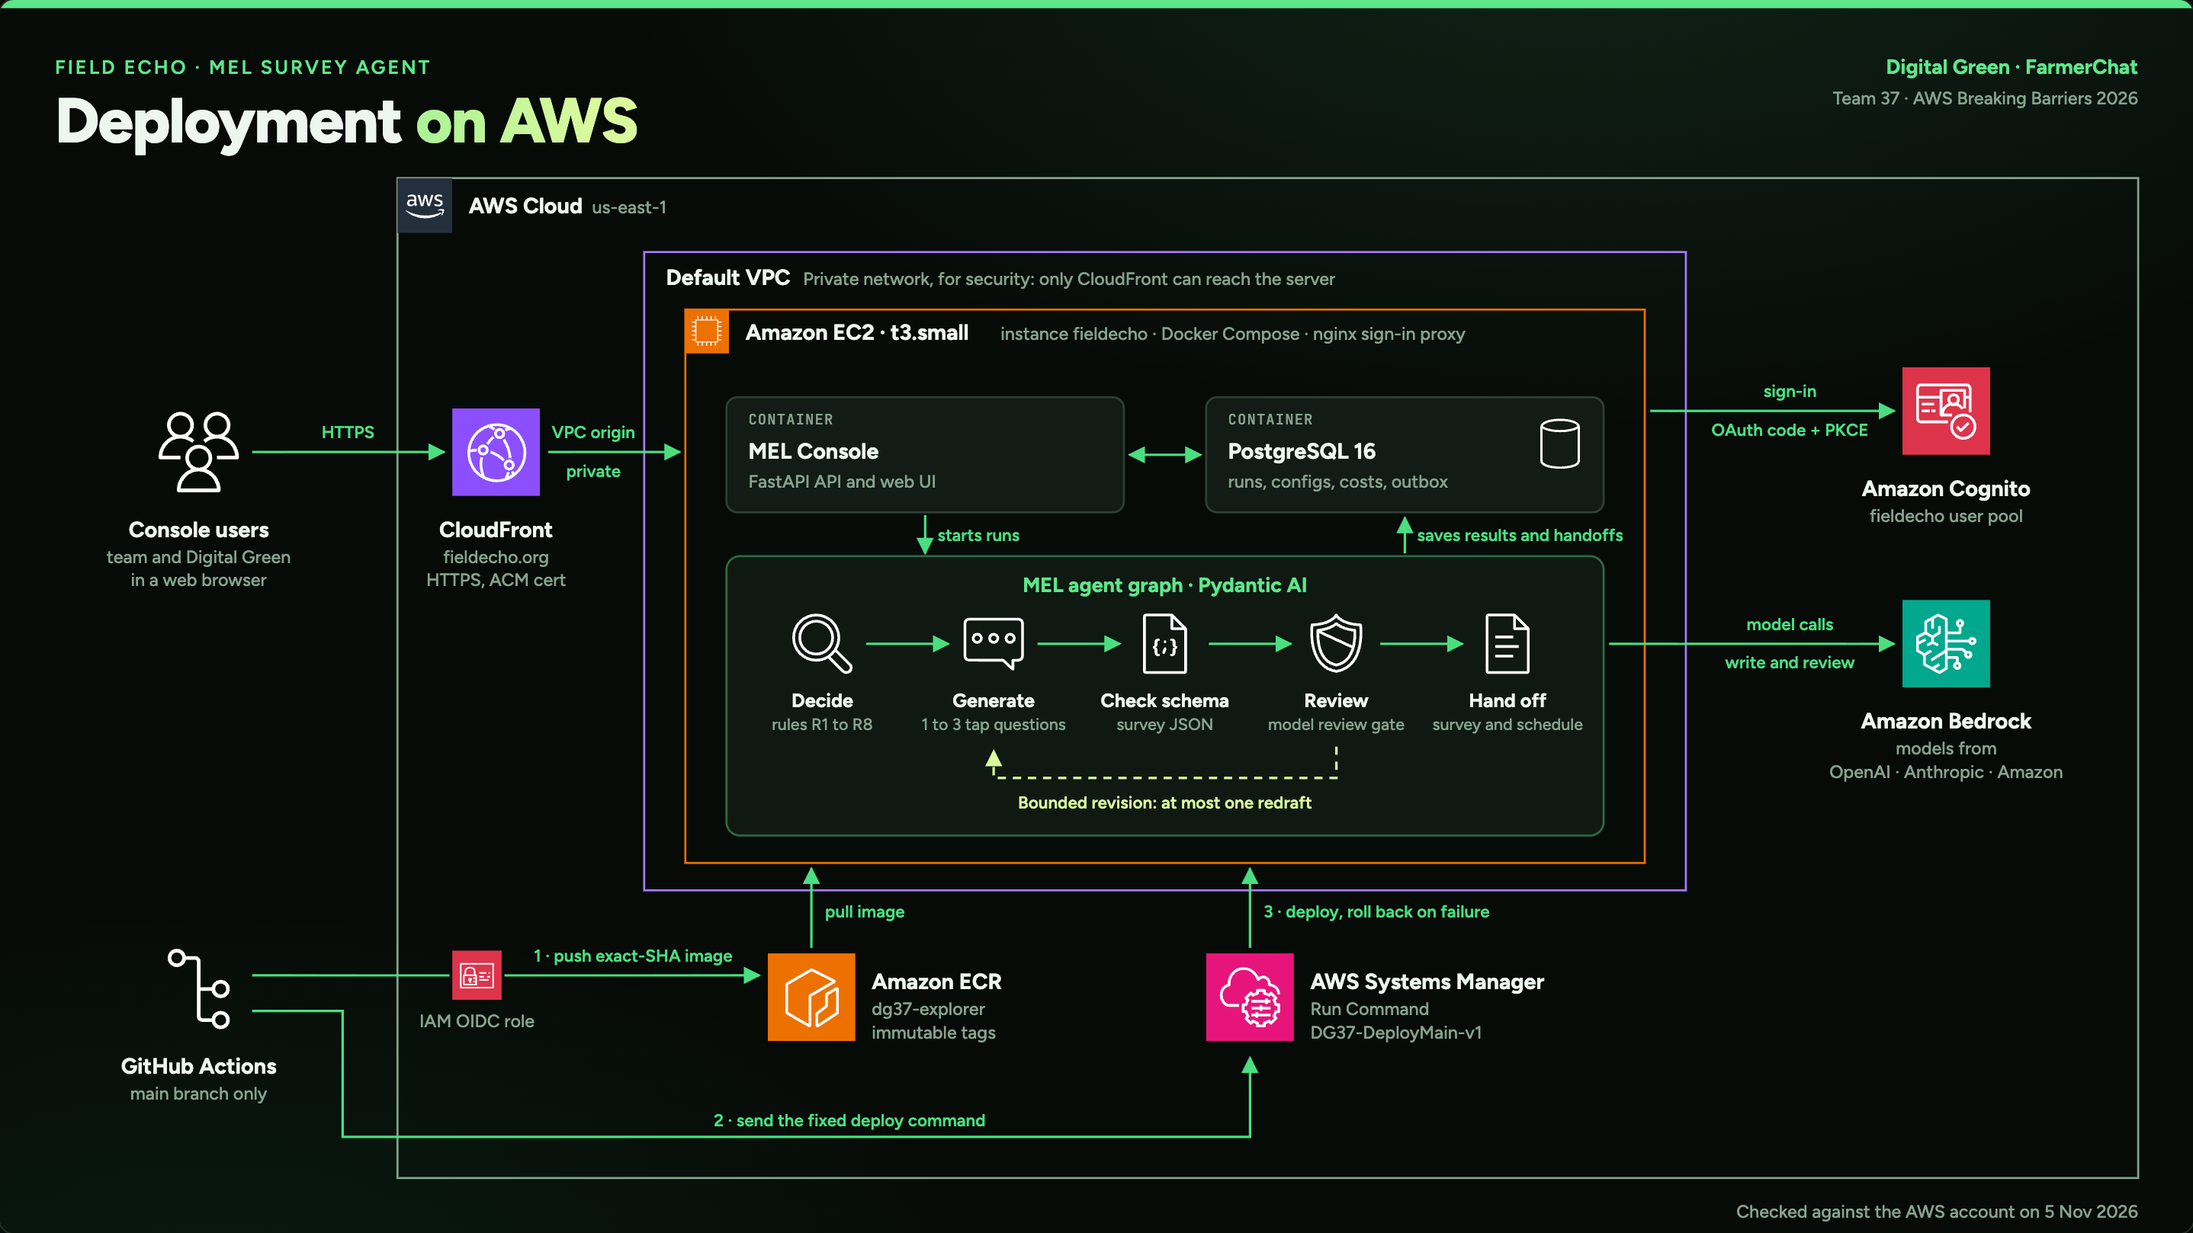
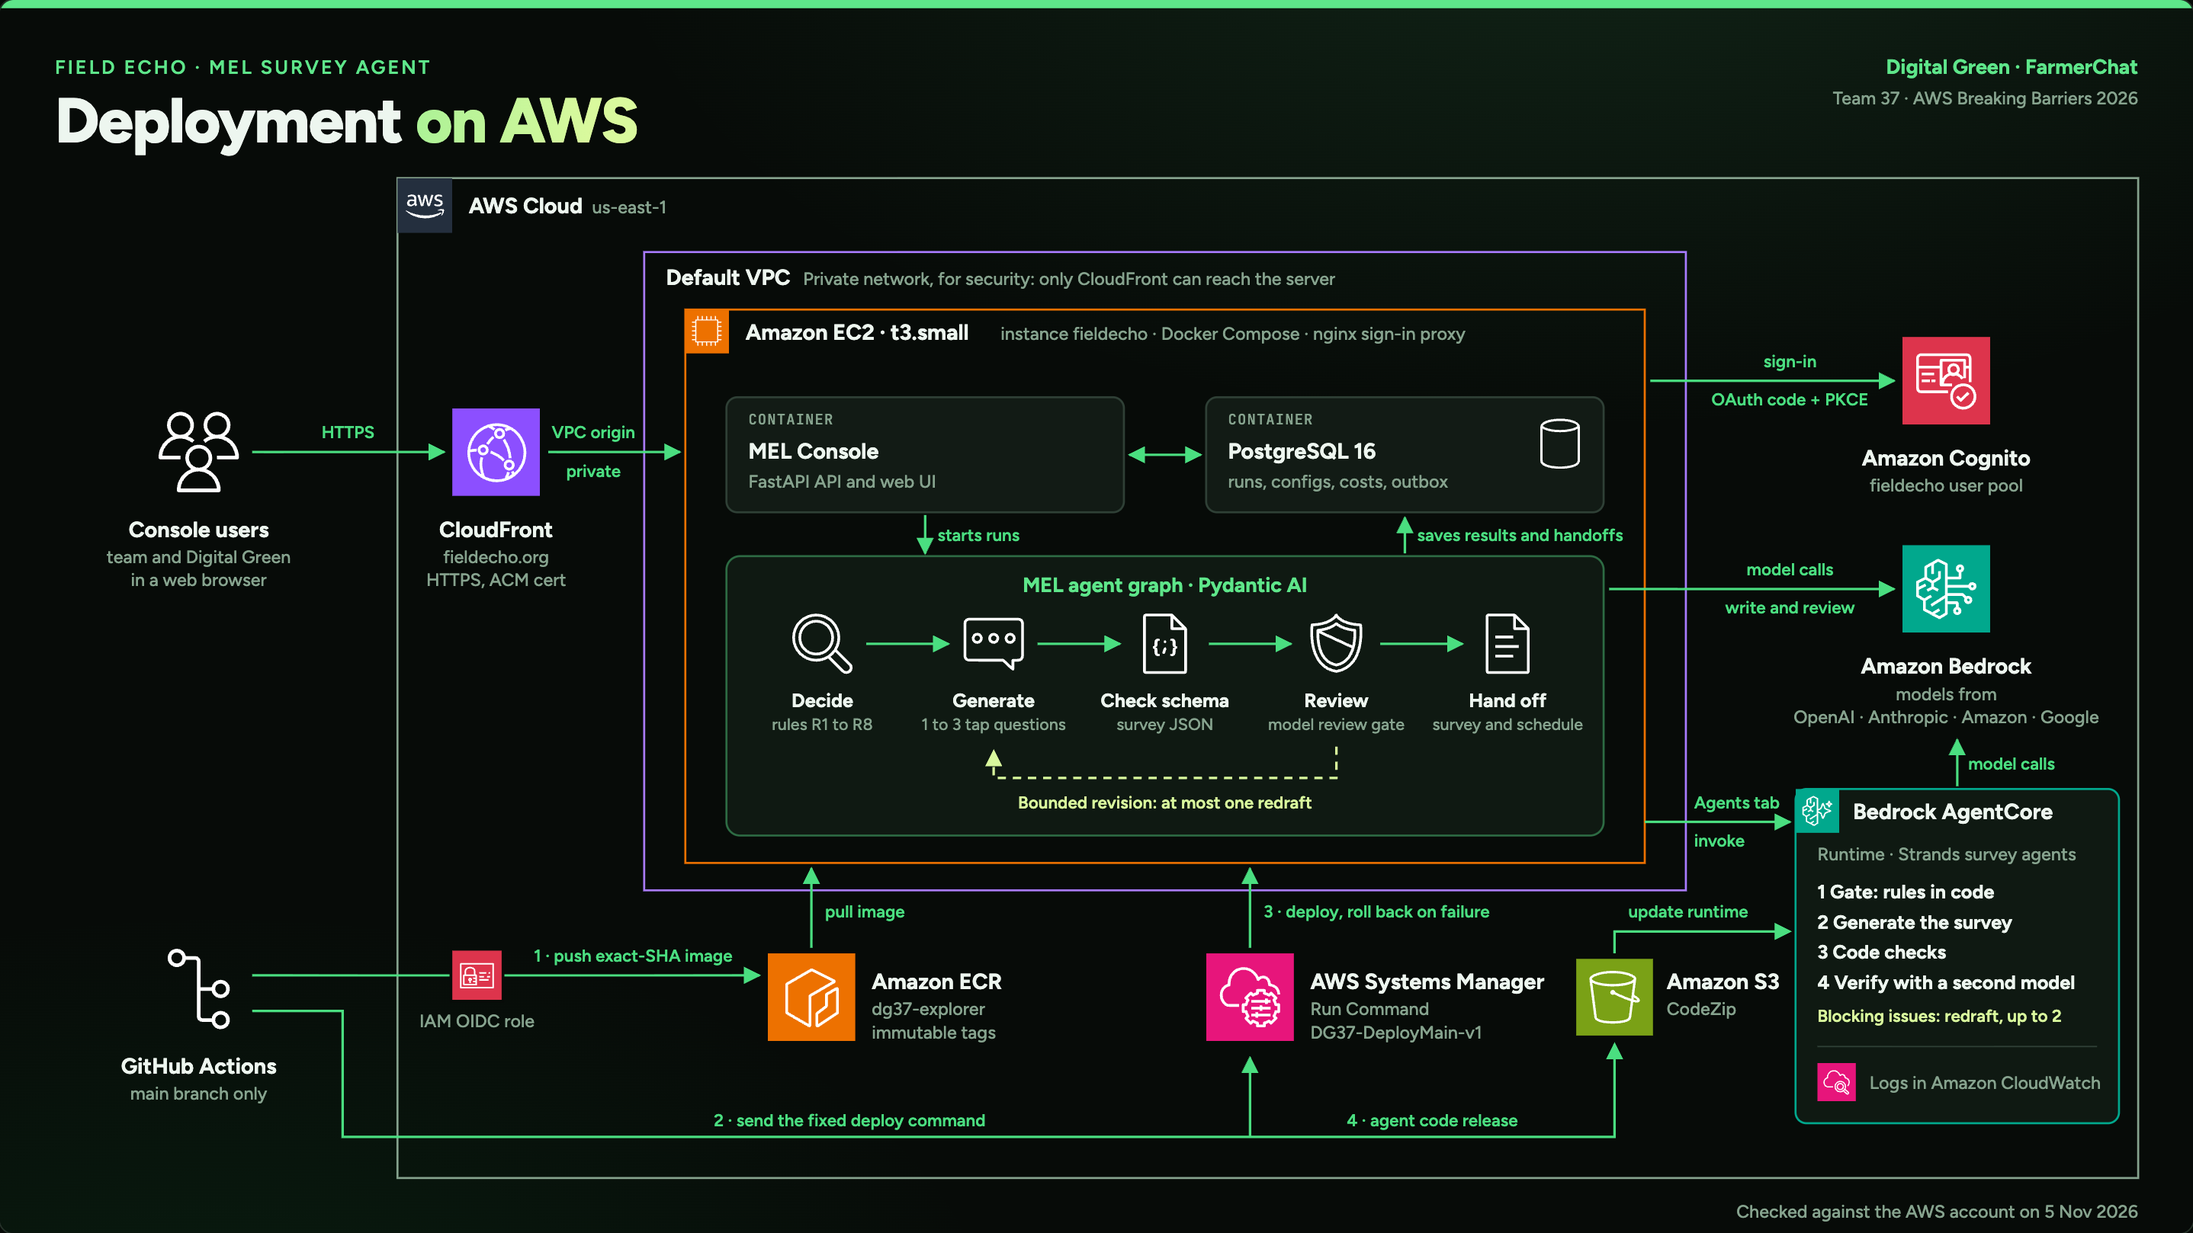
Add Bedrock AgentCore to the AWS deployment diagram
The console's Agents tab invokes the Strands survey agents on Bedrock AgentCore
Runtime (FieldEchoAgentCore_melSurveyAgent, READY). The diagram now shows that
runtime with its gate, generate, code-check and verify steps, its model calls
to Bedrock and its CloudWatch logs, and the CI release that uploads an
exact-SHA CodeZip to S3 and updates the runtime. Bedrock lists Google too: the
runtime role allows the Gemma translator. Checked read-only against the account.

Changed region(s): [[0.7118, 0.2472, 0.9593, 0.8653], [0.8046, 0.8653, 0.9593, 0.8962], [0.588, 0.8962, 0.7427, 0.9271]]

diff --git a/docs/aws-deployment.html b/docs/aws-deployment.html
@@ -89,7 +89,7 @@ body { margin: 0; background: var(--bg); color: var(--ink); font-family: var(--f
 <div class="wrap">
 <div class="scroll">
 <svg id="deployment" viewBox="0 0 1600 900" xmlns="http://www.w3.org/2000/svg" role="img"
-  aria-label="Field Echo deployment on AWS. Console users reach fieldecho.org through Amazon CloudFront, which forwards to one Amazon EC2 t3.small instance through a private VPC origin. The instance runs Docker Compose with nginx, the MEL Console container and a PostgreSQL 16 container. The MEL agent graph decides, generates, checks the schema, reviews and hands off a survey, with at most one redraft. Amazon Cognito handles sign-in. The agent graph calls Amazon Bedrock models from OpenAI, Anthropic and Amazon. GitHub Actions on main assumes an IAM OIDC role, pushes the image to Amazon ECR and deploys through AWS Systems Manager Run Command.">
+  aria-label="Field Echo deployment on AWS. Console users reach fieldecho.org through Amazon CloudFront, which forwards to one Amazon EC2 t3.small instance through a private VPC origin. The instance runs Docker Compose with nginx, the MEL Console container and a PostgreSQL 16 container. The MEL agent graph decides, generates, checks the schema, reviews and hands off a survey, with at most one redraft. Amazon Cognito handles sign-in. The agent graph calls Amazon Bedrock models from OpenAI, Anthropic, Amazon and Google. The console's Agents tab invokes the Strands survey agents on Amazon Bedrock AgentCore Runtime, which gate, generate, check and verify a survey with up to two redrafts, call Bedrock models and log to Amazon CloudWatch. GitHub Actions on main assumes an IAM OIDC role, pushes the image to Amazon ECR, deploys through AWS Systems Manager Run Command, and releases the agent code to AgentCore through an Amazon S3 CodeZip.">
   <style>
     /* Light (MEL Console) tokens by default. Dark (Field Echo deck) tokens with class
        ad-dark, an explicit dark page theme, or a dark system theme. ad-embed hides the
@@ -127,6 +127,8 @@ body { margin: 0; background: var(--bg); color: var(--ink); font-family: var(--f
     #deployment .ad-g-ec2 { fill: none; stroke: var(--ad-ec2); stroke-width: 1.5; }
     #deployment .ad-card { fill: var(--ad-card); stroke: var(--ad-card-line); stroke-width: 1.5; }
     #deployment .ad-panel { fill: var(--ad-panel); stroke: var(--ad-panel-line); stroke-width: 1.5; }
+    #deployment .ad-g-ml { fill: var(--ad-panel); stroke: #01A88D; stroke-width: 1.5; }  /* AWS ML group color */
+    #deployment .ad-divider { stroke: var(--ad-card-line); stroke-width: 1; }
     #deployment .ad-mono { filter: var(--ad-mono-filter); }
     #deployment .ad-accent { fill: var(--ad-accent); }
     #deployment .ad-eyebrow { font: 600 14px var(--ad-font); letter-spacing: .12em; fill: var(--ad-green); }
@@ -252,20 +254,39 @@ body { margin: 0; background: var(--bg); color: var(--ink); font-family: var(--f
   <text class="ad-edge" x="433" y="348" text-anchor="middle">private</text>
 
   <!-- Right: Cognito, Bedrock -->
-  <line class="ad-w" x1="1204" y1="300" x2="1382" y2="300" marker-end="url(#ad-arrow)"/>
-  <text class="ad-edge" x="1306" y="290" text-anchor="middle">sign-in</text>
-  <text class="ad-edge" x="1306" y="318" text-anchor="middle">OAuth code + PKCE</text>
-  <image href="assets/aws-icons/AmazonCognito.svg" x="1388" y="268" width="64" height="64"/>
-  <text class="ad-lbl" x="1420" y="362" text-anchor="middle">Amazon Cognito</text>
-  <text class="ad-sub" x="1420" y="381" text-anchor="middle">fieldecho user pool</text>
+  <line class="ad-w" x1="1204" y1="278" x2="1382" y2="278" marker-end="url(#ad-arrow)"/>
+  <text class="ad-edge" x="1306" y="268" text-anchor="middle">sign-in</text>
+  <text class="ad-edge" x="1306" y="296" text-anchor="middle">OAuth code + PKCE</text>
+  <image href="assets/aws-icons/AmazonCognito.svg" x="1388" y="246" width="64" height="64"/>
+  <text class="ad-lbl" x="1420" y="340" text-anchor="middle">Amazon Cognito</text>
+  <text class="ad-sub" x="1420" y="359" text-anchor="middle">fieldecho user pool</text>
 
-  <line class="ad-w" x1="1174" y1="470" x2="1382" y2="470" marker-end="url(#ad-arrow)"/>
-  <text class="ad-edge" x="1306" y="460" text-anchor="middle">model calls</text>
-  <text class="ad-edge" x="1306" y="488" text-anchor="middle">write and review</text>
-  <image href="assets/aws-icons/AmazonBedrock.svg" x="1388" y="438" width="64" height="64"/>
-  <text class="ad-lbl" x="1420" y="532" text-anchor="middle">Amazon Bedrock</text>
-  <text class="ad-sub" x="1420" y="551" text-anchor="middle">models from</text>
-  <text class="ad-sub" x="1420" y="568" text-anchor="middle">OpenAI · Anthropic · Amazon</text>
+  <line class="ad-w" x1="1174" y1="430" x2="1382" y2="430" marker-end="url(#ad-arrow)"/>
+  <text class="ad-edge" x="1306" y="420" text-anchor="middle">model calls</text>
+  <text class="ad-edge" x="1306" y="448" text-anchor="middle">write and review</text>
+  <image href="assets/aws-icons/AmazonBedrock.svg" x="1388" y="398" width="64" height="64"/>
+  <text class="ad-lbl" x="1420" y="492" text-anchor="middle">Amazon Bedrock</text>
+  <text class="ad-sub" x="1420" y="511" text-anchor="middle">models from</text>
+  <text class="ad-sub" x="1420" y="528" text-anchor="middle">OpenAI · Anthropic · Amazon · Google</text>
+
+  <!-- AgentCore: the Strands survey agents the console's Agents tab runs -->
+  <line class="ad-w" x1="1200" y1="600" x2="1306" y2="600" marker-end="url(#ad-arrow)"/>
+  <text class="ad-edge" x="1236" y="590">Agents tab</text>
+  <text class="ad-edge" x="1236" y="618">invoke</text>
+  <line class="ad-w" x1="1428" y1="574" x2="1428" y2="540" marker-end="url(#ad-arrow)"/>
+  <text class="ad-edge" x="1436" y="562">model calls</text>
+  <rect class="ad-g-ml" x="1310" y="576" width="236" height="244" rx="8"/>
+  <image href="assets/aws-icons/AmazonBedrockAgentCore.svg" x="1310" y="576" width="32" height="32"/>
+  <text class="ad-grp" x="1352" y="598">Bedrock AgentCore</text>
+  <text class="ad-grp-sub" x="1326" y="628">Runtime · Strands survey agents</text>
+  <text class="ad-step" x="1326" y="656">1  Gate: rules in code</text>
+  <text class="ad-step" x="1326" y="678">2  Generate the survey</text>
+  <text class="ad-step" x="1326" y="700">3  Code checks</text>
+  <text class="ad-step" x="1326" y="722">4  Verify with a second model</text>
+  <text class="ad-loop-lbl" x="1326" y="746">Blocking issues: redraft, up to 2</text>
+  <line class="ad-divider" x1="1326" y1="764" x2="1530" y2="764"/>
+  <image href="assets/aws-icons/AmazonCloudWatch.svg" x="1326" y="776" width="28" height="28"/>
+  <text class="ad-sub" x="1364" y="795">Logs in Amazon CloudWatch</text>
 
   <!-- Delivery -->
   <image class="ad-mono" href="assets/aws-icons/GitRepository.svg" x="113" y="690" width="64" height="64"/>
@@ -296,6 +317,14 @@ body { margin: 0; background: var(--bg); color: var(--ink); font-family: var(--f
   <line class="ad-w" x1="912" y1="692" x2="912" y2="634" marker-end="url(#ad-arrow)"/>
   <text class="ad-edge" x="922" y="670">3 · deploy, roll back on failure</text>
 
+  <path class="ad-w" d="M912,830 H1178 V762" marker-end="url(#ad-arrow)"/>
+  <text class="ad-edge" x="1045" y="822" text-anchor="middle">4 · agent code release</text>
+  <image href="assets/aws-icons/AmazonSimpleStorageService.svg" x="1150" y="700" width="56" height="56"/>
+  <text class="ad-lbl" x="1216" y="722">Amazon S3</text>
+  <text class="ad-sub" x="1216" y="741">CodeZip</text>
+  <path class="ad-w" d="M1178,696 V680 H1306" marker-end="url(#ad-arrow)"/>
+  <text class="ad-edge" x="1188" y="670">update runtime</text>
+
   <text class="ad-meta" x="1560" y="889" text-anchor="end">Checked against the AWS account on 5 Nov 2026</text>
 </svg>
 </div>
@@ -304,7 +333,8 @@ body { margin: 0; background: var(--bg); color: var(--ink); font-family: var(--f
   <h2>What this shows, and what it leaves out</h2>
   <ul>
     <li>The diagram shows the AWS resources that run today. It shows the delivery path because every merge to <code>main</code> uses it.</li>
-    <li>The MEL agent calls Amazon Bedrock to write and review surveys, under the console spend cap. The host role allows three models: OpenAI GPT-6 Luna (Responses API), Anthropic Claude Haiku 4.5 and Amazon Nova Lite (Converse API).</li>
+    <li>Two agent paths call Amazon Bedrock. The MEL agent graph runs inside the console on EC2, under the console spend cap; the host role allows OpenAI GPT-6 Luna (Responses API), Anthropic Claude Haiku 4.5 and Amazon Nova Lite (Converse API). The Agents tab invokes the Strands survey agents on Bedrock AgentCore Runtime (<code>FieldEchoAgentCore_melSurveyAgent</code>); its role allows Anthropic Claude and OpenAI GPT generators, Claude verifiers and the Google Gemma translator.</li>
+    <li>Every merge to <code>main</code> also releases the agent code: CI uploads an exact-SHA CodeZip to S3 and updates the AgentCore runtime (<code>deploy/agentcore.py</code>).</li>
     <li><code>template.yaml</code> describes a larger serverless stack (Lambda, API Gateway, Fargate, RDS, S3). That stack is not deployed, so it is not on the diagram.</li>
     <li>The voice survey runs on GitHub Pages with ElevenLabs recordings. It does not use AWS.</li>
     <li>Slide exports: <a href="aws-deployment.png">light</a> and <a href="aws-deployment-dark.png">dark</a>. The dark version is also slide 4 of the <a href="https://fieldecho.org/talk/#4">team talk</a>. Add <code>#dark</code> or <code>#light</code> to this page's address to force a theme. Update steps are in a comment at the top of this file.</li>

diff --git a/src/mel/explorer/talk/index.html b/src/mel/explorer/talk/index.html
@@ -84,7 +84,7 @@
     <div class="content arch">
 <!-- aws-diagram:start (generated by scripts/build_talk_diagram.py; edit docs/aws-deployment.html) -->
 <svg id="deployment" class="ad-dark ad-embed" viewBox="0 0 1600 900" xmlns="http://www.w3.org/2000/svg" role="img"
-  aria-label="Field Echo deployment on AWS. Console users reach fieldecho.org through Amazon CloudFront, which forwards to one Amazon EC2 t3.small instance through a private VPC origin. The instance runs Docker Compose with nginx, the MEL Console container and a PostgreSQL 16 container. The MEL agent graph decides, generates, checks the schema, reviews and hands off a survey, with at most one redraft. Amazon Cognito handles sign-in. The agent graph calls Amazon Bedrock models from OpenAI, Anthropic and Amazon. GitHub Actions on main assumes an IAM OIDC role, pushes the image to Amazon ECR and deploys through AWS Systems Manager Run Command.">
+  aria-label="Field Echo deployment on AWS. Console users reach fieldecho.org through Amazon CloudFront, which forwards to one Amazon EC2 t3.small instance through a private VPC origin. The instance runs Docker Compose with nginx, the MEL Console container and a PostgreSQL 16 container. The MEL agent graph decides, generates, checks the schema, reviews and hands off a survey, with at most one redraft. Amazon Cognito handles sign-in. The agent graph calls Amazon Bedrock models from OpenAI, Anthropic, Amazon and Google. The console's Agents tab invokes the Strands survey agents on Amazon Bedrock AgentCore Runtime, which gate, generate, check and verify a survey with up to two redrafts, call Bedrock models and log to Amazon CloudWatch. GitHub Actions on main assumes an IAM OIDC role, pushes the image to Amazon ECR, deploys through AWS Systems Manager Run Command, and releases the agent code to AgentCore through an Amazon S3 CodeZip.">
   <style>
     /* Light (MEL Console) tokens by default. Dark (Field Echo deck) tokens with class
        ad-dark, an explicit dark page theme, or a dark system theme. ad-embed hides the
@@ -122,6 +122,8 @@
     #deployment .ad-g-ec2 { fill: none; stroke: var(--ad-ec2); stroke-width: 1.5; }
     #deployment .ad-card { fill: var(--ad-card); stroke: var(--ad-card-line); stroke-width: 1.5; }
     #deployment .ad-panel { fill: var(--ad-panel); stroke: var(--ad-panel-line); stroke-width: 1.5; }
+    #deployment .ad-g-ml { fill: var(--ad-panel); stroke: #01A88D; stroke-width: 1.5; }  /* AWS ML group color */
+    #deployment .ad-divider { stroke: var(--ad-card-line); stroke-width: 1; }
     #deployment .ad-mono { filter: var(--ad-mono-filter); }
     #deployment .ad-accent { fill: var(--ad-accent); }
     #deployment .ad-eyebrow { font: 600 14px var(--ad-font); letter-spacing: .12em; fill: var(--ad-green); }
@@ -247,20 +249,39 @@
   <text class="ad-edge" x="433" y="348" text-anchor="middle">private</text>
 
   <!-- Right: Cognito, Bedrock -->
-  <line class="ad-w" x1="1204" y1="300" x2="1382" y2="300" marker-end="url(#ad-arrow)"/>
-  <text class="ad-edge" x="1306" y="290" text-anchor="middle">sign-in</text>
-  <text class="ad-edge" x="1306" y="318" text-anchor="middle">OAuth code + PKCE</text>
-  <image href="aws-icons/AmazonCognito.svg" x="1388" y="268" width="64" height="64"/>
-  <text class="ad-lbl" x="1420" y="362" text-anchor="middle">Amazon Cognito</text>
-  <text class="ad-sub" x="1420" y="381" text-anchor="middle">fieldecho user pool</text>
+  <line class="ad-w" x1="1204" y1="278" x2="1382" y2="278" marker-end="url(#ad-arrow)"/>
+  <text class="ad-edge" x="1306" y="268" text-anchor="middle">sign-in</text>
+  <text class="ad-edge" x="1306" y="296" text-anchor="middle">OAuth code + PKCE</text>
+  <image href="aws-icons/AmazonCognito.svg" x="1388" y="246" width="64" height="64"/>
+  <text class="ad-lbl" x="1420" y="340" text-anchor="middle">Amazon Cognito</text>
+  <text class="ad-sub" x="1420" y="359" text-anchor="middle">fieldecho user pool</text>
 
-  <line class="ad-w" x1="1174" y1="470" x2="1382" y2="470" marker-end="url(#ad-arrow)"/>
-  <text class="ad-edge" x="1306" y="460" text-anchor="middle">model calls</text>
-  <text class="ad-edge" x="1306" y="488" text-anchor="middle">write and review</text>
-  <image href="aws-icons/AmazonBedrock.svg" x="1388" y="438" width="64" height="64"/>
-  <text class="ad-lbl" x="1420" y="532" text-anchor="middle">Amazon Bedrock</text>
-  <text class="ad-sub" x="1420" y="551" text-anchor="middle">models from</text>
-  <text class="ad-sub" x="1420" y="568" text-anchor="middle">OpenAI · Anthropic · Amazon</text>
+  <line class="ad-w" x1="1174" y1="430" x2="1382" y2="430" marker-end="url(#ad-arrow)"/>
+  <text class="ad-edge" x="1306" y="420" text-anchor="middle">model calls</text>
+  <text class="ad-edge" x="1306" y="448" text-anchor="middle">write and review</text>
+  <image href="aws-icons/AmazonBedrock.svg" x="1388" y="398" width="64" height="64"/>
+  <text class="ad-lbl" x="1420" y="492" text-anchor="middle">Amazon Bedrock</text>
+  <text class="ad-sub" x="1420" y="511" text-anchor="middle">models from</text>
+  <text class="ad-sub" x="1420" y="528" text-anchor="middle">OpenAI · Anthropic · Amazon · Google</text>
+
+  <!-- AgentCore: the Strands survey agents the console's Agents tab runs -->
+  <line class="ad-w" x1="1200" y1="600" x2="1306" y2="600" marker-end="url(#ad-arrow)"/>
+  <text class="ad-edge" x="1236" y="590">Agents tab</text>
+  <text class="ad-edge" x="1236" y="618">invoke</text>
+  <line class="ad-w" x1="1428" y1="574" x2="1428" y2="540" marker-end="url(#ad-arrow)"/>
+  <text class="ad-edge" x="1436" y="562">model calls</text>
+  <rect class="ad-g-ml" x="1310" y="576" width="236" height="244" rx="8"/>
+  <image href="aws-icons/AmazonBedrockAgentCore.svg" x="1310" y="576" width="32" height="32"/>
+  <text class="ad-grp" x="1352" y="598">Bedrock AgentCore</text>
+  <text class="ad-grp-sub" x="1326" y="628">Runtime · Strands survey agents</text>
+  <text class="ad-step" x="1326" y="656">1  Gate: rules in code</text>
+  <text class="ad-step" x="1326" y="678">2  Generate the survey</text>
+  <text class="ad-step" x="1326" y="700">3  Code checks</text>
+  <text class="ad-step" x="1326" y="722">4  Verify with a second model</text>
+  <text class="ad-loop-lbl" x="1326" y="746">Blocking issues: redraft, up to 2</text>
+  <line class="ad-divider" x1="1326" y1="764" x2="1530" y2="764"/>
+  <image href="aws-icons/AmazonCloudWatch.svg" x="1326" y="776" width="28" height="28"/>
+  <text class="ad-sub" x="1364" y="795">Logs in Amazon CloudWatch</text>
 
   <!-- Delivery -->
   <image class="ad-mono" href="aws-icons/GitRepository.svg" x="113" y="690" width="64" height="64"/>
@@ -290,6 +311,14 @@
   <text class="ad-edge" x="602" y="670">pull image</text>
   <line class="ad-w" x1="912" y1="692" x2="912" y2="634" marker-end="url(#ad-arrow)"/>
   <text class="ad-edge" x="922" y="670">3 · deploy, roll back on failure</text>
+
+  <path class="ad-w" d="M912,830 H1178 V762" marker-end="url(#ad-arrow)"/>
+  <text class="ad-edge" x="1045" y="822" text-anchor="middle">4 · agent code release</text>
+  <image href="aws-icons/AmazonSimpleStorageService.svg" x="1150" y="700" width="56" height="56"/>
+  <text class="ad-lbl" x="1216" y="722">Amazon S3</text>
+  <text class="ad-sub" x="1216" y="741">CodeZip</text>
+  <path class="ad-w" d="M1178,696 V680 H1306" marker-end="url(#ad-arrow)"/>
+  <text class="ad-edge" x="1188" y="670">update runtime</text>
 
   <text class="ad-meta" x="1560" y="889" text-anchor="end">Checked against the AWS account on 5 Nov 2026</text>
 </svg>
